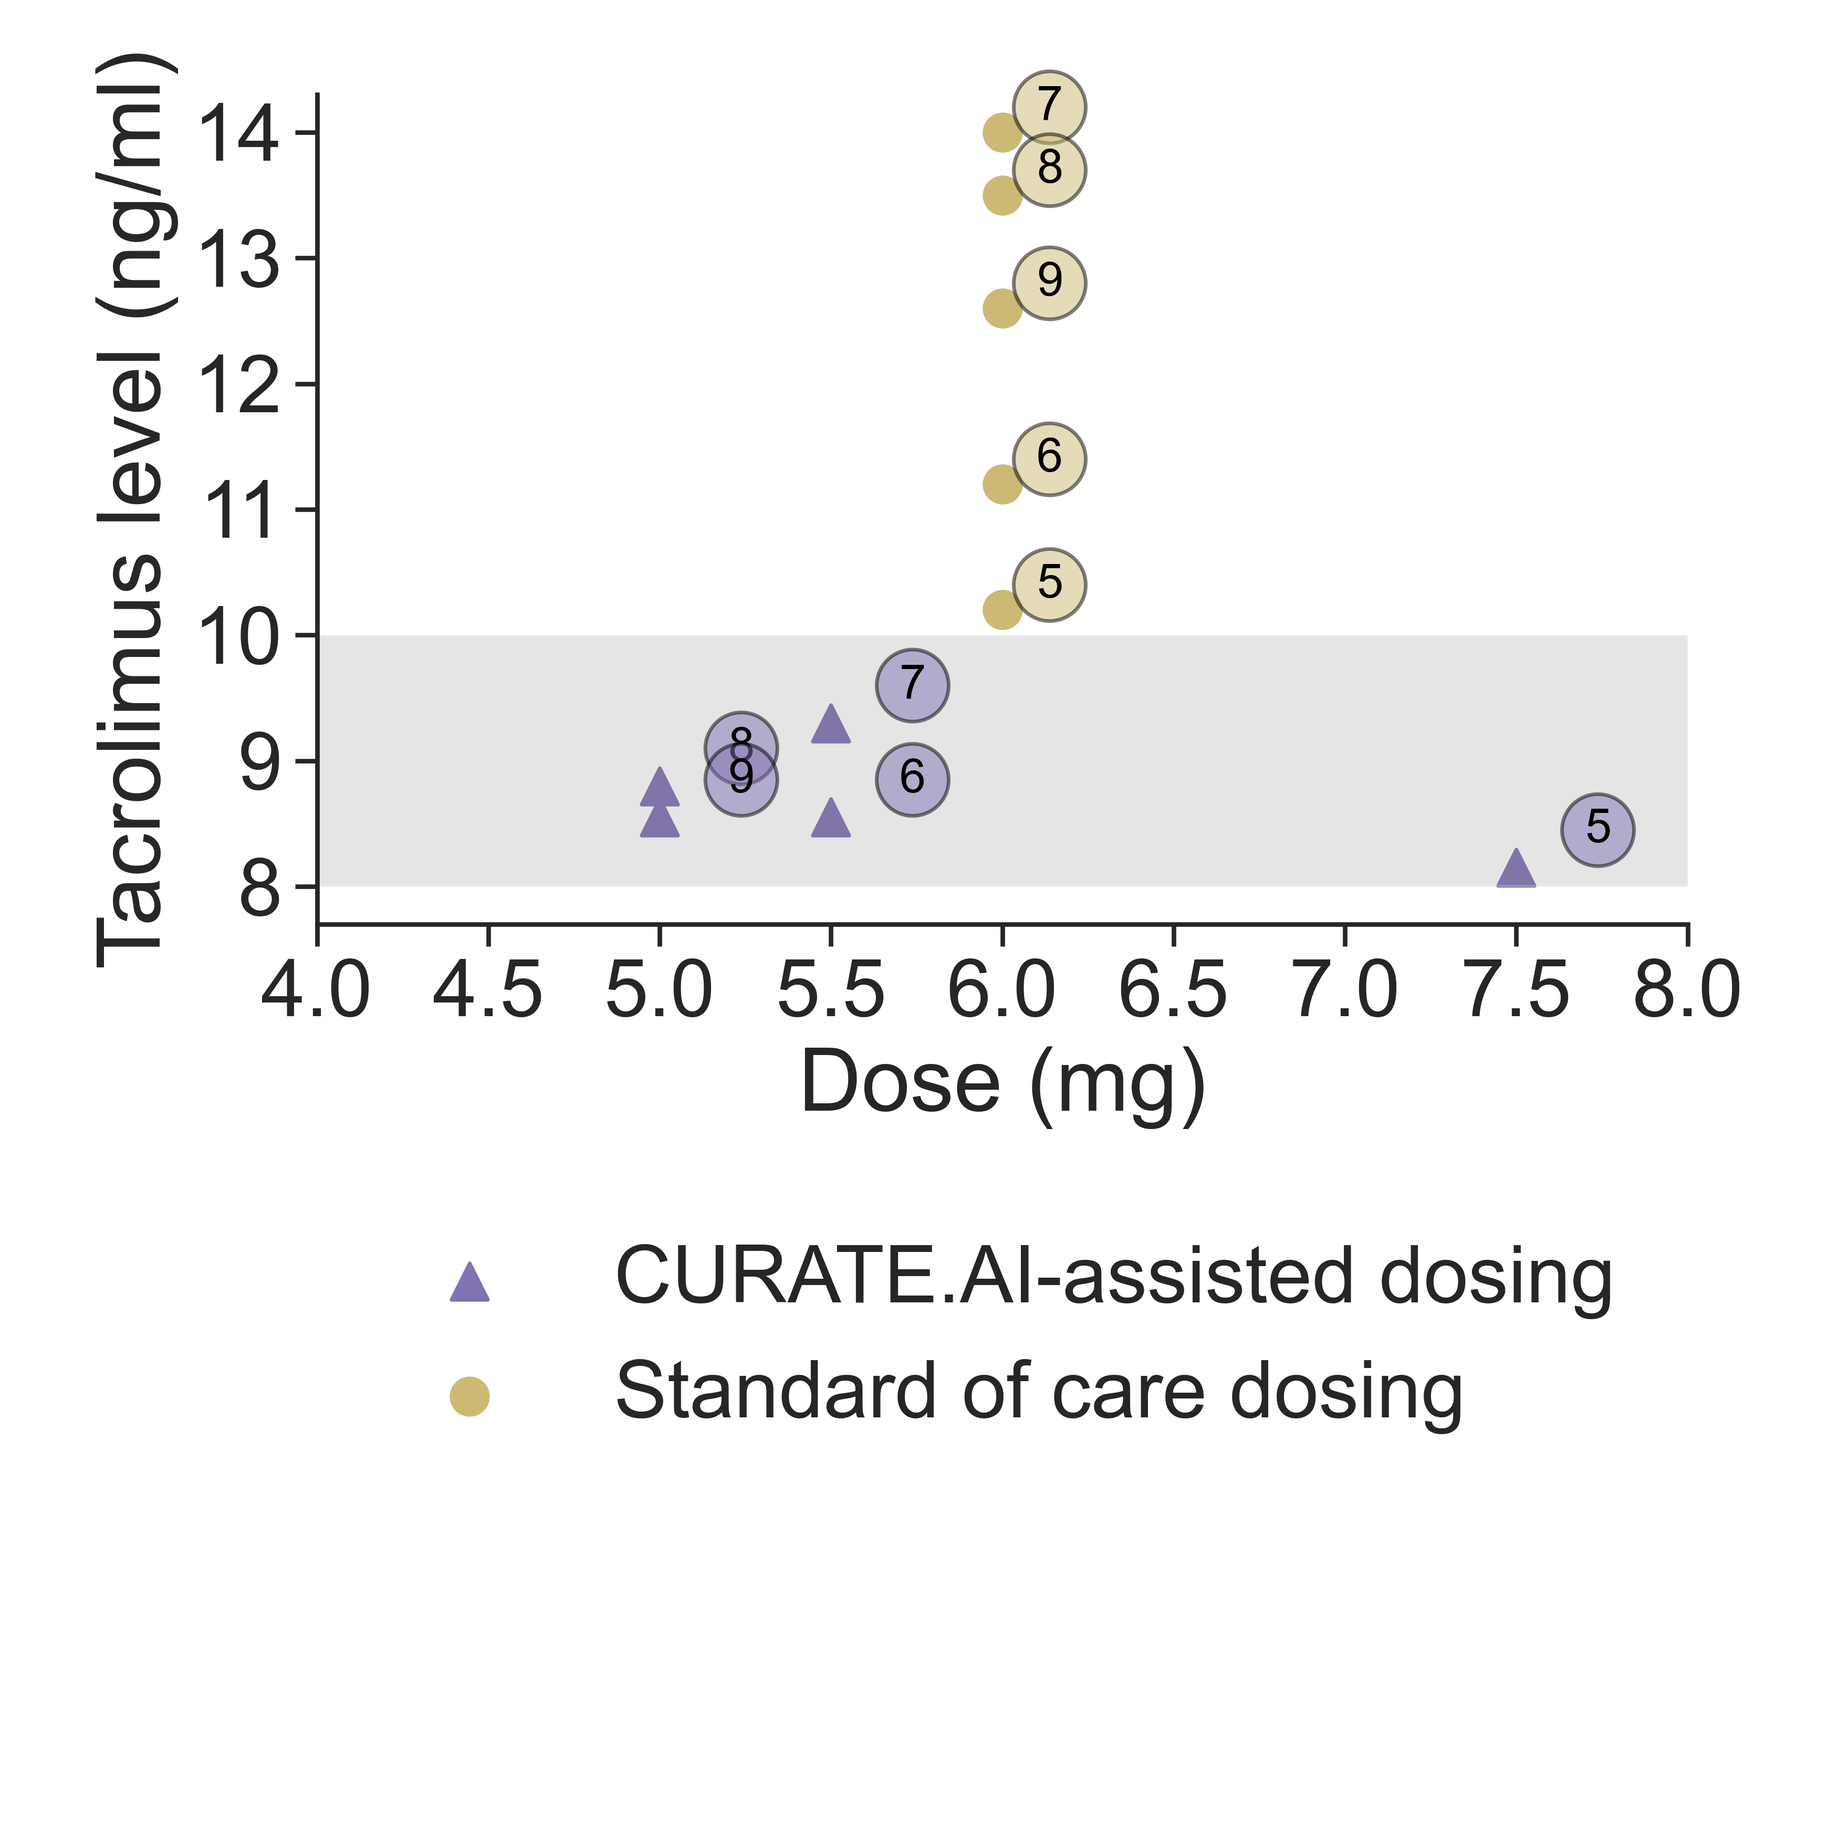
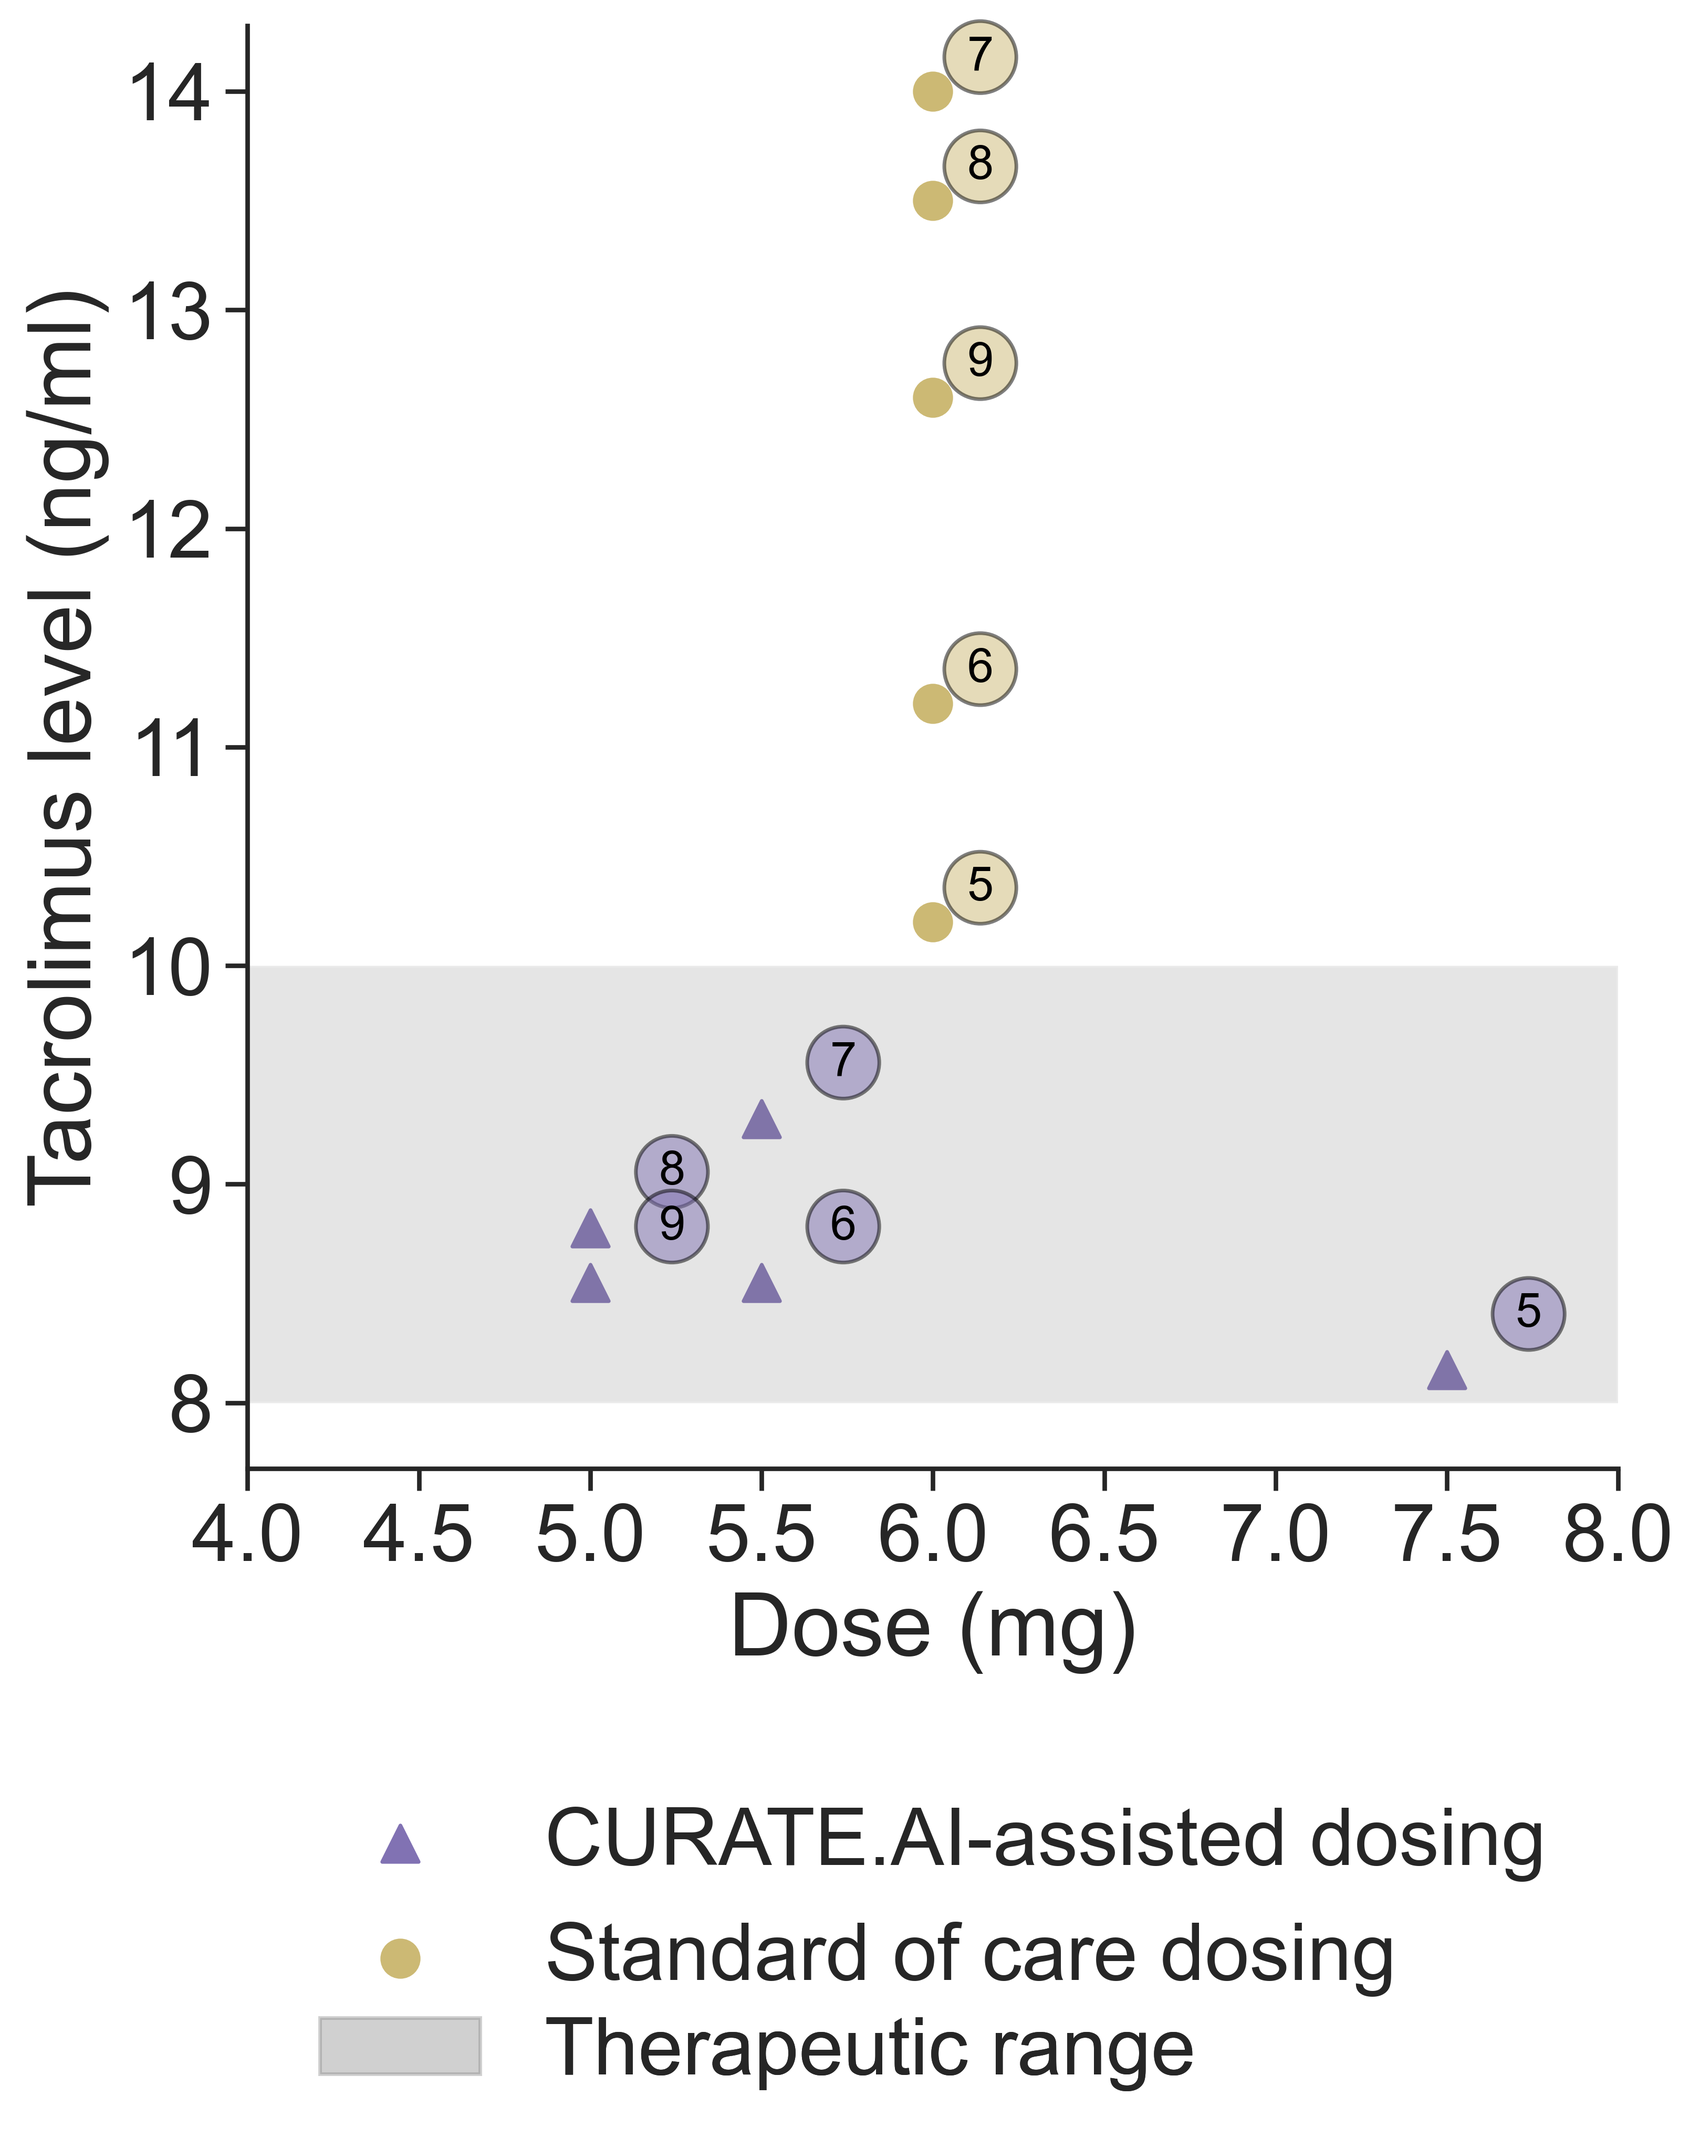
Add gray therapeutic legend to pt 118

diff --git a/plotting.py b/plotting.py
@@ -9,6 +9,7 @@ from sklearn.metrics import mean_squared_error
 import math
 from matplotlib import colors
 from matplotlib.pyplot import cm
+from matplotlib.patches import Patch
 
 ##### New graphs after meeting with NUH ######
 
@@ -1371,14 +1372,14 @@ def case_series_118_repeated_dosing_multiple_plots():
     patient 118, with each plot representing one day of prediction. 
     """
     dat_original, combined_df = case_series_118()
-    
+
     # Subset repeated doses
     combined_df = combined_df[(combined_df.pred_day > 4) & (combined_df.pred_day < 10)].reset_index(drop=True)
 
     sns.set(style='white', font_scale=2,
-           rc={"xtick.bottom":True, "ytick.left":True})
+        rc={"xtick.bottom":True, "ytick.left":True})
 
-    plt.subplots(1, 5, figsize=(25,5))
+    fig, ax = plt.subplots(1, 5, figsize=(25,7))
 
     # Loop through number of predictions chosen
     for i in range(5):
@@ -1412,6 +1413,12 @@ def case_series_118_repeated_dosing_multiple_plots():
                 fontdict=dict(color='black',size=16),
                 bbox=dict(facecolor='y', ec='black', alpha=0.5, boxstyle='circle'))
             
+        # Add legend for grey patch of therapeutic range
+        if i == 0:
+            legend_elements = [Patch(facecolor='grey', edgecolor='grey',
+                                    label='Therapeutic range', alpha=.2)]
+            plt.legend(handles=legend_elements, bbox_to_anchor=(-0.2,-.3), loc='upper left', frameon=False)       
+
     plt.tight_layout()
     plt.savefig('patient_118_case_series_repeated.png',dpi=500)
 
@@ -1531,11 +1538,11 @@ def case_series_118_repeated_dosing_response_vs_dose():
     dat = dat[['pred_day', 'dose', 'response', 'CURATE-recommended dose', 'predicted_response_based_on_rec']]
 
     # Plot
+    fig, axes = plt.subplots()
     sns.set(font_scale=2, rc={"figure.figsize": (7,7), "xtick.bottom":True, "ytick.left":True}, style='white')
 
     plt.scatter(x=dat['CURATE-recommended dose'], y=dat['predicted_response_based_on_rec'], marker='^', color='m', label='CURATE.AI-assisted dosing', s=100)
     plt.scatter(x=dat['dose'], y=dat['response'], marker='o', color='y', label='Standard of care dosing', s=100)
-    plt.legend(bbox_to_anchor=(0.5,-0.5), loc='center', frameon=False)
     sns.despine()
     plt.xlabel('Dose (mg)')
     plt.ylabel('Tacrolimus level (ng/ml)')
@@ -1543,6 +1550,16 @@ def case_series_118_repeated_dosing_response_vs_dose():
     plt.xticks(np.arange(4,8.5,step=0.5))
     plt.xlim(4,8)
     plt.yticks(np.arange(8,15,step=1))
+
+    legend1 = plt.legend(bbox_to_anchor=(0.5,-0.3), loc='center', frameon=False)
+
+    legend_elements = [Patch(facecolor='grey', edgecolor='grey',
+                            label='Therapeutic range', alpha=.2)]
+    legend2 = plt.legend(handles=legend_elements, bbox_to_anchor=(0,-0.33), loc='upper left', frameon=False)
+
+    
+    axes.add_artist(legend1)
+    axes.add_artist(legend2)        
 
     for i in range(dat.shape[0]):
         plt.text(x=dat.dose[i]+0.1,y=dat.response[i]+0.1,s=int(dat.pred_day[i]),
@@ -1554,7 +1571,7 @@ def case_series_118_repeated_dosing_response_vs_dose():
              bbox=dict(facecolor='m', ec='black', alpha=0.5, boxstyle='circle'))
 
     plt.tight_layout()
-    plt.savefig('patient_118_repeated_dose_response_vs_dose.png',dpi=500)
+    plt.savefig('patient_118_repeated_dose_response_vs_dose.png',dpi=500, bbox_inches='tight')
     
     return dat
 

diff --git a/retro_PLT.py b/retro_PLT.py
@@ -39,6 +39,7 @@ warnings.simplefilter("ignore", OptimizeWarning)
 import timeit
 from sklearn.metrics import mean_squared_error
 from matplotlib.pyplot import cm
+from matplotlib.patches import Patch
 
 # +
 # %%time
